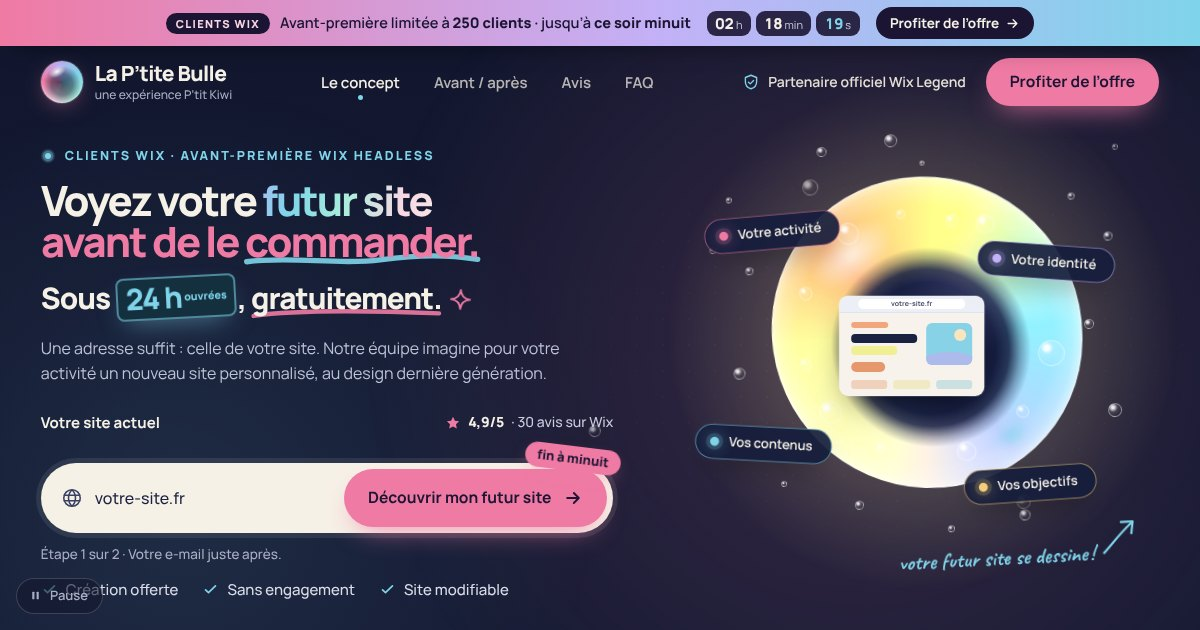
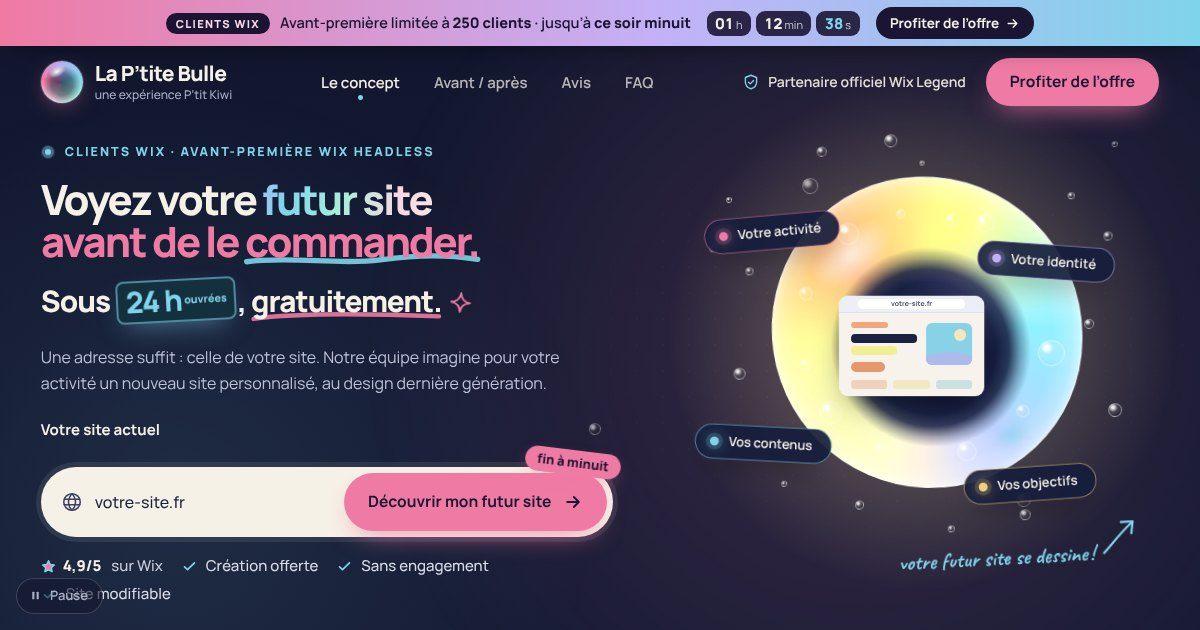
Hero encore plus aeree

diff --git a/index.html b/index.html
@@ -76,7 +76,6 @@
 <div class="field-block">
 <div class="field-head">
 <label id="lp-label" for="lp-field">Votre site actuel</label>
-<button type="button" class="rating" data-open="panel-avis" aria-label="Note de 4,9 sur 5 sur 30 avis Wix, voir les avis"><svg aria-hidden="true" width="16" height="16" viewBox="0 0 24 24"><path d="M12 2.8l2.8 5.9 6.4.8-4.7 4.4 1.2 6.4L12 17.2l-5.7 3.1 1.2-6.4L2.8 9.5l6.4-.8z" fill="#EF7AA4"/></svg><strong>4,9/5</strong> · 30 avis sur Wix</button>
 </div>
 
 <div id="lp-form-wrap" class="form-wrap">
@@ -108,6 +107,7 @@
 
 <div class="hero-extra">
 <ul class="checks">
+<li class="check-rating"><button type="button" class="rating" data-open="panel-avis" aria-label="Note de 4,9 sur 5 sur 30 avis Wix, voir les avis"><svg aria-hidden="true" width="16" height="16" viewBox="0 0 24 24"><path d="M12 2.8l2.8 5.9 6.4.8-4.7 4.4 1.2 6.4L12 17.2l-5.7 3.1 1.2-6.4L2.8 9.5l6.4-.8z" fill="#EF7AA4"/></svg><strong>4,9/5</strong> sur Wix</button></li>
 <li><svg aria-hidden="true" viewBox="0 0 24 24"><path d="M5 12.5l4.2 4L19 7"/></svg>Création offerte</li>
 <li><svg aria-hidden="true" viewBox="0 0 24 24"><path d="M5 12.5l4.2 4L19 7"/></svg>Sans engagement</li>
 <li><svg aria-hidden="true" viewBox="0 0 24 24"><path d="M5 12.5l4.2 4L19 7"/></svg>Site modifiable</li>

diff --git a/styles.css b/styles.css
@@ -798,6 +798,23 @@ section[id],#lp-field,#fin-field{scroll-margin-top:calc(var(--bar-h) + 16px)}
 
 .eb-short{display:none}
 @media (max-width:480px){.eb-full{display:none}.eb-short{display:inline}}
+
+/* v16 : encore plus d'air */
+.hero-copy{gap:clamp(20px,3.4vh,40px)}
+.field-block{gap:14px}
+.form-wrap{gap:10px}
+.field-foot:has(p:empty):not(:has(button:not([hidden]))){display:none}
+.field-foot p:empty{display:none}
+.checks{gap:10px 22px}
+.check-rating .rating{padding:0;font-size:15px}
+.check-rating .rating svg{width:15px;height:15px}
+.lead{margin-top:2px}
+@media (min-width:1080px) and (max-height:1000px){html:not(.offer-ended) .hero-copy{gap:clamp(18px,3.2vh,36px)}}
+@media (max-width:560px){.hero-copy{gap:22px}}
+@media (max-width:380px) and (max-height:700px){.hero-copy{gap:14px}}
+@media (max-height:500px){.hero-copy{gap:10px}.check-rating{display:none}}
+
+.checks{gap:10px 18px}
 @media (prefers-reduced-motion:reduce){
   html{scroll-behavior:auto}
   *,*::before,*::after{animation-duration:.001ms!important;animation-delay:0s!important;animation-iteration-count:1!important;transition-duration:.001ms!important}

diff --git a/main.js b/main.js
@@ -136,7 +136,7 @@
       f.inputMode = state.noSite ? 'text' : 'url';
       f.placeholder = state.noSite ? 'Fleuriste, coach, boulangerie…' : 'www.votre-site.fr';
       setText(v.ctaLabel, 'Découvrir mon futur site');
-      defaultStep = 'Étape 1 sur 2 · Votre e-mail juste' + NB + 'après.';
+      defaultStep = '';
     }
     f.readOnly = state.sending;
     const err = mine ? state.error : '';
